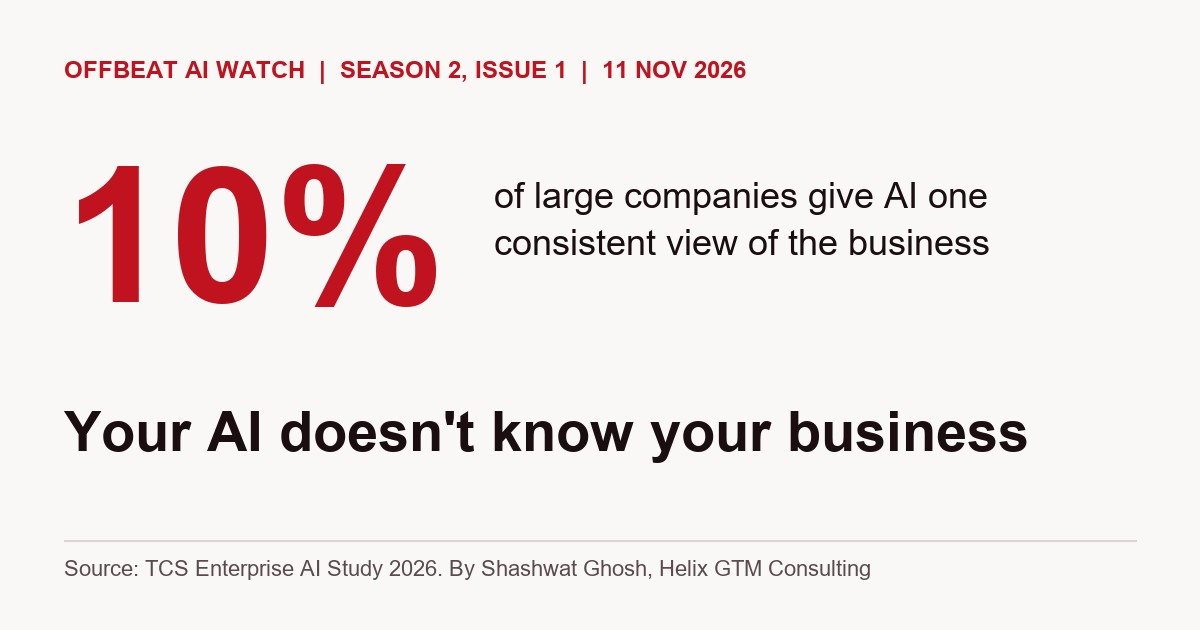
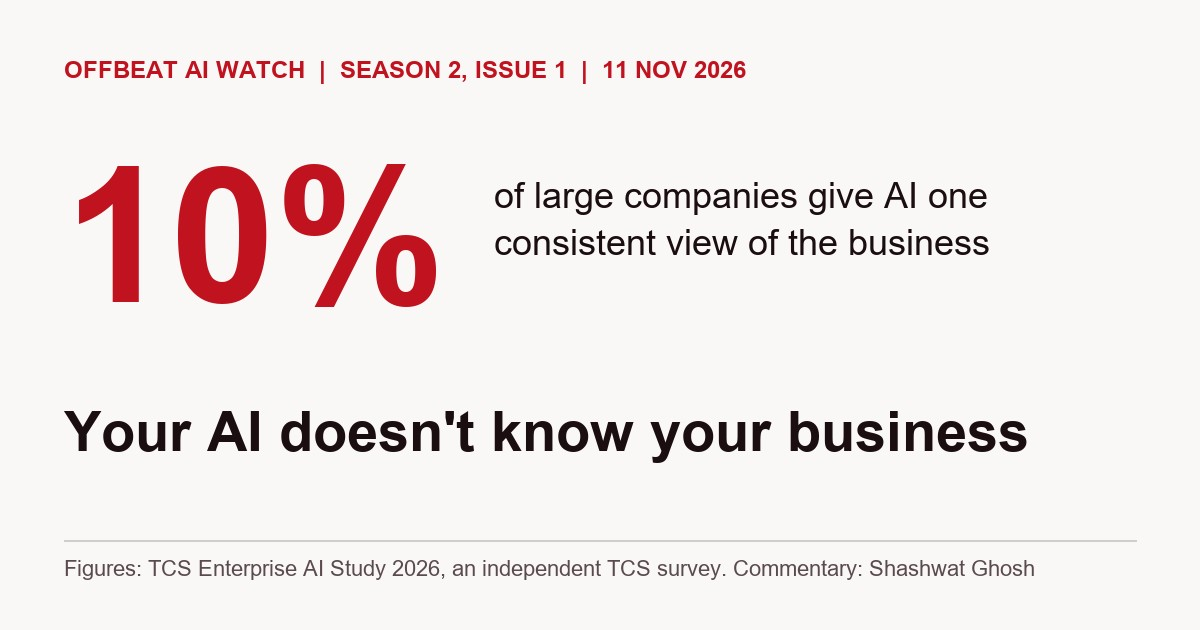
Season 2 Issue 1: independent TCS attribution on chart, card and caption

Changed region(s): [[0.0617, 0.8746, 0.8633, 0.9349]]

diff --git a/issues/2026-11-11.html b/issues/2026-11-11.html
@@ -341,7 +341,7 @@ body{background:linear-gradient(180deg,rgba(207,230,245,.85) 0,rgba(238,241,246,
 </head>
 <body>
 <a class="hx-skip" href="#main">Skip to content</a>
-<main id="main" class="obx obx-b"><header class="obx-head"><div class="obx-mast"><span class="obx-brand">Offbeat AI Watch</span><span>Season 2, Issue 1</span><span><time datetime="2026-11-11">11 November 2026</time></span><span>Fortnightly intelligence brief</span></div><h1>Your AI doesn't know your business</h1><p class="obx-dek">Only 10% of large companies give AI one view of the business. That is why your team's AI sounds generic.</p><p class="obx-by">By <a href="https://gtmhelix.com/about/">Shashwat Ghosh</a>, AI native fractional CMO</p></header><div class="obx-front"><div><section id="cover"><figure><img src="/ai-trendwatch/images/tcs-enterprise-ai-business-context-1280x680.jpg" width="1280" height="680" alt="Bar chart from the TCS Enterprise AI Study 2026: of 1,333 large companies, 11% keep business knowledge mainly with employees, 33% have fragmented documentation, 30% document key processes, 16% have standardised business context and only 10% have an enterprise business context layer that gives AI a consistent view across all systems." decoding="async"><figcaption>TCS Enterprise AI Study, Figure 9. Chart by Helix GTM from TCS data.</figcaption></figure><p class="obx-label">Cover story</p><h2>The context gap</h2><p>Only 10% of large companies give AI one consistent view of the business, a <a href="https://www.tcs.com/content/dam/global-tcs/en/pdfs/insights/global-studies/report/enterprise-ai-study-key-findings.pdf" rel="noopener" target="_blank">TCS survey</a> of 1,333 senior leaders finds. In 44%, the knowledge sits with employees (11%) or in scattered documents (33%). The top barrier to scaling AI: data that is not integrated, accessible or trusted.</p><p><strong>Bottom line:</strong> in a GTM team, that context is your ICP, your win reasons and your positioning. If it lives in the founder's head, your AI writes generic output. Structure the context before you scale the AI.</p></section><div class="obx-note" id="editors-note"><p class="obx-label">Editor's note</p><p>Diwali greetings to you and your family.</p><p>Offbeat AI Watch is back with Season 2: bigger, better and bolder.</p><p>The TCS study puts a number on a gap I usually find in GTM teams. The ICP, the win reasons and the positioning sit in one person's head, so the team's AI guesses.</p><p>I built the CRAFT framework for this: five things to tell an AI so its answer is specific. It is a public skill, <a href="https://www.skills.sh/shashwatgtm" rel="noopener" target="_blank">craft-context-engineering</a>. Helix's free GTM tools apply the same idea.</p><p class="obx-close">Write down what your best seller knows before you ask AI to sell.</p><p class="obx-by">Shashwat Ghosh</p></div></div><aside><section id="signal"><p class="obx-label">Offbeat news</p><ul class="obx-brief"><li id="signal-crowdstrike"><h3>CrowdStrike adds an AI off switch</h3><p>An administrator can now stop a rogue agent, block it from relaunching and cut its network access. Gateway first, endpoint next. CrowdStrike is also buying Fiddler for agent observability. <span class="obx-sigline">The signal: Buyers now expect a stop button and an audit trail.</span> <span class="obx-src"><a href="https://www.scworld.com/brief/crowdstrike-introduces-ai-kill-switch-to-manage-rogue-agents" rel="noopener" target="_blank">SC Media</a> · <a href="https://www.crowdstrike.com/en-us/press-releases/crowdstrike-to-acquire-fiddler-to-deliver-agent-observability/" rel="noopener" target="_blank">Fiddler deal</a></span></p></li><li id="signal-depa"><h3>India: train AI where the data lives</h3><p>MeitY's DEPA for AI Training handbook lets institutions keep control of the data used to train AI. “Under DEPA, the model travels to the data,” says Principal Scientific Adviser Ajay Kumar Sood. <span class="obx-sigline">The signal: Indian buyers will ask where your model trains.</span> <span class="obx-src"><a href="https://www.pib.gov.in/PressReleasePage.aspx?PRID=2330756" rel="noopener" target="_blank">PIB</a></span></p></li><li id="signal-pliant"><h3>Pliant: $80M for agent payments</h3><p>The Berlin B2B payments firm raised a Series C after passing $100M ARR. Agents from Claude, ChatGPT or in-house automations connect over MCP and pay inside workflows, with permissions and audit built in. <span class="obx-sigline">The signal: Agent payments are now a funded B2B category.</span> <span class="obx-src"><a href="https://www.getpliant.com/en/press/80-million-series-c" rel="noopener" target="_blank">Pliant</a></span></p></li><li id="signal-drcf"><h3>UK: you own what your agent does</h3><p>The CMA, FCA, ICO and Ofcom say existing law already covers AI agents. “An AI agent's autonomy does not diminish the responsibility of organisations that deploy it.” <span class="obx-sigline">The signal: Selling to UK customers through an agent? You are accountable.</span> <span class="obx-src"><a href="https://www.drcf.org.uk/publications/joint-statements/joint-statement-on-protecting-people-and-businesses-in-an-agentic-economy" rel="noopener" target="_blank">DRCF</a></span></p></li><li id="signal-anthropic"><h3>Anthropic shows what AI spend buys</h3><p>Claude Enterprise now has smart reports, a sampled view of each team's work, spend and friction, plus pooled monthly budgets for groups. <span class="obx-sigline">The signal: Proof of value per team is coming to AI renewals.</span> <span class="obx-src"><a href="https://claude.com/resources/articles/smart-reports-surveys-pooled-budgets" rel="noopener" target="_blank">Anthropic</a></span></p></li></ul></section></aside></div><section class="obx-trends" id="trends"><p class="obx-label">Offbeat trends of the fortnight</p><ol><li><span class="obx-num">01</span><h3>Control before autonomy</h3><p>Two thirds of large companies let AI decide nowhere or in only a few cases (<a href="#cover">TCS</a>). <a href="#signal-crowdstrike">CrowdStrike</a> puts a person on the kill switch; <a href="#builders-corner">Microsoft's</a> agent tools follow CRM permissions.</p><p class="obx-wtm"><b>What this means for you:</b> Lead every AI pitch with the human override.</p></li><li><span class="obx-num">02</span><h3>The AI goes to the data</h3><p><a href="#signal-depa">DEPA</a>: the model travels to the data. <a href="#builders-corner">Microsoft</a>: agents see only what each user's CRM role allows. TCS: 43% in Continental Europe call AI sovereignty a high risk.</p><p class="obx-wtm"><b>What this means for you:</b> Keep a one-page answer on where your AI trains, runs and stores data.</p></li><li><span class="obx-num">03</span><h3>Agents get a budget, and an owner</h3><p><a href="#signal-pliant">Pliant</a> lets agents pay inside workflows. <a href="#builders-corner">Microsoft's</a> agents can turn quotes into orders. <a href="#signal-drcf">UK regulators</a> say the deploying firm stays responsible.</p><p class="obx-wtm"><b>What this means for you:</b> Name who signs off every payment, quote or order your agent can start.</p></li></ol></section><div class="obx-pair"><section class="obx-box" id="tool"><p class="obx-label">Run through the tool</p><h2>What to ask a CIO before you sell AI</h2><p>I gave our discovery question tool the TCS findings above as the buyer's pain, a CIO on a first call and an AI agent that drafts sales content. Three of the questions it returned:</p><ul class="obx-quotes"><li>“Where does the data it needs live, and what may leave your environment?”</li><li>“How do you judge that a result is right today: who reviews it, and against what?”</li><li>“Which workloads or tasks would you move first, and which never?”</li></ul><p class="obx-mono">Revenue Enablement, discovery_question_bank (Gap Selling), real output</p><p><strong>How I read it:</strong> Open with where the context lives and who checks the output. A buyer who cannot answer has just named your first project.</p><p class="obx-cta"><a href="https://revenue-enablement.gtmhelix.com/tools/discovery-question-bank/?framework=gap_selling&prospect_role=Chief%20Information%20Officer&prospect_industry=large%20enterprise&known_pain_points=business%20knowledge%20sits%20with%20employees%20or%20in%20scattered%20documents%3B%20only%2010%25%20have%20one%20business%20context%20layer%20for%20AI%3B%20data%20that%20is%20not%20integrated%20or%20trusted%20blocks%20AI%20at%20scale%3B%20AI%20outputs%20are%20unpredictable%20or%20wrong&deal_stage=first_call&your_solution=an%20AI%20agent%20that%20drafts%20sales%20content%20from%20the%20buyer%27s%20own%20customer%20knowledge&gaps_to_fill=where%20business%20context%20lives%20today%3B%20who%20owns%20scaling%20AI%20without%20a%20Chief%20AI%20Officer&your_sector=ai_native">Run this story yourself on our tool</a></p></section><section class="obx-box" id="builders-corner"><p class="obx-label">Builder's corner</p><h2>Your next user may be an AI agent</h2><p>Microsoft's Dynamics 365 sales MCP server is generally available (<a href="https://www.microsoft.com/en-us/dynamics-365/blog/it-professional/2026/10/29/dynamics-365-cx-mcp-server-sales/" rel="noopener" target="_blank">Microsoft</a>, 29 Oct): 59 governed tools, from leads to quotes and orders, inside any MCP assistant, under each user's CRM permissions.</p><p>Microsoft's reasoning: “Sellers don’t live in one place. They work across chat, email, agent-driven workflows, and the tools closest to the deal, so CRM needs to meet them there.” It calls this a step toward headless CRM.</p><p><strong>Takeaway:</strong> big vendors are adding MCP on top of their APIs. If a buyer's AI cannot reach your product, you drop out of the workflow. Helix built its 48 free GTM tools this way.</p><p class="obx-cta"><a href="https://tools.gtmhelix.com/connectors/">Try our free MCP tools</a></p></section></div><section class="obx-tail"><div><p class="obx-label">Previous season</p><ul class="obx-prev"><li><a href="https://gtmhelix.com/ai-trendwatch/issues/2026-01-07">Google's AI Content Reckoning: December 2025 Core Update Changes Everything</a> <span>Issue 6, 7 January 2026</span></li><li><a href="https://gtmhelix.com/ai-trendwatch/issues/2025-12-17">Tech Giants Unite: Agentic AI Foundation Launches with MCP at Its Core</a> <span>Issue 5, 17 December 2025</span></li><li><a href="https://gtmhelix.com/ai-trendwatch/issues/2025-12-03">Anthropic Discloses First AI-Orchestrated Cyber Espionage Campaign</a> <span>Issue 4, 3 December 2025</span></li><li><a href="https://gtmhelix.com/ai-trendwatch/issues/2025-11-03">OpenAI DevDay: Enterprise Scaling for Agentic AI</a> <span>Issue 3, 3 November 2025</span></li></ul><p><a href="https://gtmhelix.com/ai-trendwatch/archive">All issues</a></p></div><div><p class="obx-label">Get the next issue</p><p>A free fortnightly brief on the AI news that matters to B2B leaders.</p><form action='/writing/subscribed/' class='subscribe-form' method='POST' name='offbeat-ai-watch'>
+<main id="main" class="obx obx-b"><header class="obx-head"><div class="obx-mast"><span class="obx-brand">Offbeat AI Watch</span><span>Season 2, Issue 1</span><span><time datetime="2026-11-11">11 November 2026</time></span><span>Fortnightly intelligence brief</span></div><h1>Your AI doesn't know your business</h1><p class="obx-dek">Only 10% of large companies give AI one view of the business. That is why your team's AI sounds generic.</p><p class="obx-by">By <a href="https://gtmhelix.com/about/">Shashwat Ghosh</a>, AI native fractional CMO</p></header><div class="obx-front"><div><section id="cover"><figure><img src="/ai-trendwatch/images/tcs-enterprise-ai-business-context-1280x680.jpg" width="1280" height="680" alt="Bar chart from the TCS Enterprise AI Study 2026: of 1,333 large companies, 11% keep business knowledge mainly with employees, 33% have fragmented documentation, 30% document key processes, 16% have standardised business context and only 10% have an enterprise business context layer that gives AI a consistent view across all systems." decoding="async"><figcaption>TCS Enterprise AI Study 2026, Figure 9. Independent survey by TCS; chart redrawn by Helix GTM from the published data.</figcaption></figure><p class="obx-label">Cover story</p><h2>The context gap</h2><p>Only 10% of large companies give AI one consistent view of the business, a <a href="https://www.tcs.com/content/dam/global-tcs/en/pdfs/insights/global-studies/report/enterprise-ai-study-key-findings.pdf" rel="noopener" target="_blank">TCS survey</a> of 1,333 senior leaders finds. In 44%, the knowledge sits with employees (11%) or in scattered documents (33%). The top barrier to scaling AI: data that is not integrated, accessible or trusted.</p><p><strong>Bottom line:</strong> in a GTM team, that context is your ICP, your win reasons and your positioning. If it lives in the founder's head, your AI writes generic output. Structure the context before you scale the AI.</p></section><div class="obx-note" id="editors-note"><p class="obx-label">Editor's note</p><p>Diwali greetings to you and your family.</p><p>Offbeat AI Watch is back with Season 2: bigger, better and bolder.</p><p>The TCS study puts a number on a gap I usually find in GTM teams. The ICP, the win reasons and the positioning sit in one person's head, so the team's AI guesses.</p><p>I built the CRAFT framework for this: five things to tell an AI so its answer is specific. It is a public skill, <a href="https://www.skills.sh/shashwatgtm" rel="noopener" target="_blank">craft-context-engineering</a>. Helix's free GTM tools apply the same idea.</p><p class="obx-close">Write down what your best seller knows before you ask AI to sell.</p><p class="obx-by">Shashwat Ghosh</p></div></div><aside><section id="signal"><p class="obx-label">Offbeat news</p><ul class="obx-brief"><li id="signal-crowdstrike"><h3>CrowdStrike adds an AI off switch</h3><p>An administrator can now stop a rogue agent, block it from relaunching and cut its network access. Gateway first, endpoint next. CrowdStrike is also buying Fiddler for agent observability. <span class="obx-sigline">The signal: Buyers now expect a stop button and an audit trail.</span> <span class="obx-src"><a href="https://www.scworld.com/brief/crowdstrike-introduces-ai-kill-switch-to-manage-rogue-agents" rel="noopener" target="_blank">SC Media</a> · <a href="https://www.crowdstrike.com/en-us/press-releases/crowdstrike-to-acquire-fiddler-to-deliver-agent-observability/" rel="noopener" target="_blank">Fiddler deal</a></span></p></li><li id="signal-depa"><h3>India: train AI where the data lives</h3><p>MeitY's DEPA for AI Training handbook lets institutions keep control of the data used to train AI. “Under DEPA, the model travels to the data,” says Principal Scientific Adviser Ajay Kumar Sood. <span class="obx-sigline">The signal: Indian buyers will ask where your model trains.</span> <span class="obx-src"><a href="https://www.pib.gov.in/PressReleasePage.aspx?PRID=2330756" rel="noopener" target="_blank">PIB</a></span></p></li><li id="signal-pliant"><h3>Pliant: $80M for agent payments</h3><p>The Berlin B2B payments firm raised a Series C after passing $100M ARR. Agents from Claude, ChatGPT or in-house automations connect over MCP and pay inside workflows, with permissions and audit built in. <span class="obx-sigline">The signal: Agent payments are now a funded B2B category.</span> <span class="obx-src"><a href="https://www.getpliant.com/en/press/80-million-series-c" rel="noopener" target="_blank">Pliant</a></span></p></li><li id="signal-drcf"><h3>UK: you own what your agent does</h3><p>The CMA, FCA, ICO and Ofcom say existing law already covers AI agents. “An AI agent's autonomy does not diminish the responsibility of organisations that deploy it.” <span class="obx-sigline">The signal: Selling to UK customers through an agent? You are accountable.</span> <span class="obx-src"><a href="https://www.drcf.org.uk/publications/joint-statements/joint-statement-on-protecting-people-and-businesses-in-an-agentic-economy" rel="noopener" target="_blank">DRCF</a></span></p></li><li id="signal-anthropic"><h3>Anthropic shows what AI spend buys</h3><p>Claude Enterprise now has smart reports, a sampled view of each team's work, spend and friction, plus pooled monthly budgets for groups. <span class="obx-sigline">The signal: Proof of value per team is coming to AI renewals.</span> <span class="obx-src"><a href="https://claude.com/resources/articles/smart-reports-surveys-pooled-budgets" rel="noopener" target="_blank">Anthropic</a></span></p></li></ul></section></aside></div><section class="obx-trends" id="trends"><p class="obx-label">Offbeat trends of the fortnight</p><ol><li><span class="obx-num">01</span><h3>Control before autonomy</h3><p>Two thirds of large companies let AI decide nowhere or in only a few cases (<a href="#cover">TCS</a>). <a href="#signal-crowdstrike">CrowdStrike</a> puts a person on the kill switch; <a href="#builders-corner">Microsoft's</a> agent tools follow CRM permissions.</p><p class="obx-wtm"><b>What this means for you:</b> Lead every AI pitch with the human override.</p></li><li><span class="obx-num">02</span><h3>The AI goes to the data</h3><p><a href="#signal-depa">DEPA</a>: the model travels to the data. <a href="#builders-corner">Microsoft</a>: agents see only what each user's CRM role allows. TCS: 43% in Continental Europe call AI sovereignty a high risk.</p><p class="obx-wtm"><b>What this means for you:</b> Keep a one-page answer on where your AI trains, runs and stores data.</p></li><li><span class="obx-num">03</span><h3>Agents get a budget, and an owner</h3><p><a href="#signal-pliant">Pliant</a> lets agents pay inside workflows. <a href="#builders-corner">Microsoft's</a> agents can turn quotes into orders. <a href="#signal-drcf">UK regulators</a> say the deploying firm stays responsible.</p><p class="obx-wtm"><b>What this means for you:</b> Name who signs off every payment, quote or order your agent can start.</p></li></ol></section><div class="obx-pair"><section class="obx-box" id="tool"><p class="obx-label">Run through the tool</p><h2>What to ask a CIO before you sell AI</h2><p>I gave our discovery question tool the TCS findings above as the buyer's pain, a CIO on a first call and an AI agent that drafts sales content. Three of the questions it returned:</p><ul class="obx-quotes"><li>“Where does the data it needs live, and what may leave your environment?”</li><li>“How do you judge that a result is right today: who reviews it, and against what?”</li><li>“Which workloads or tasks would you move first, and which never?”</li></ul><p class="obx-mono">Revenue Enablement, discovery_question_bank (Gap Selling), real output</p><p><strong>How I read it:</strong> Open with where the context lives and who checks the output. A buyer who cannot answer has just named your first project.</p><p class="obx-cta"><a href="https://revenue-enablement.gtmhelix.com/tools/discovery-question-bank/?framework=gap_selling&prospect_role=Chief%20Information%20Officer&prospect_industry=large%20enterprise&known_pain_points=business%20knowledge%20sits%20with%20employees%20or%20in%20scattered%20documents%3B%20only%2010%25%20have%20one%20business%20context%20layer%20for%20AI%3B%20data%20that%20is%20not%20integrated%20or%20trusted%20blocks%20AI%20at%20scale%3B%20AI%20outputs%20are%20unpredictable%20or%20wrong&deal_stage=first_call&your_solution=an%20AI%20agent%20that%20drafts%20sales%20content%20from%20the%20buyer%27s%20own%20customer%20knowledge&gaps_to_fill=where%20business%20context%20lives%20today%3B%20who%20owns%20scaling%20AI%20without%20a%20Chief%20AI%20Officer&your_sector=ai_native">Run this story yourself on our tool</a></p></section><section class="obx-box" id="builders-corner"><p class="obx-label">Builder's corner</p><h2>Your next user may be an AI agent</h2><p>Microsoft's Dynamics 365 sales MCP server is generally available (<a href="https://www.microsoft.com/en-us/dynamics-365/blog/it-professional/2026/10/29/dynamics-365-cx-mcp-server-sales/" rel="noopener" target="_blank">Microsoft</a>, 29 Oct): 59 governed tools, from leads to quotes and orders, inside any MCP assistant, under each user's CRM permissions.</p><p>Microsoft's reasoning: “Sellers don’t live in one place. They work across chat, email, agent-driven workflows, and the tools closest to the deal, so CRM needs to meet them there.” It calls this a step toward headless CRM.</p><p><strong>Takeaway:</strong> big vendors are adding MCP on top of their APIs. If a buyer's AI cannot reach your product, you drop out of the workflow. Helix built its 48 free GTM tools this way.</p><p class="obx-cta"><a href="https://tools.gtmhelix.com/connectors/">Try our free MCP tools</a></p></section></div><section class="obx-tail"><div><p class="obx-label">Previous season</p><ul class="obx-prev"><li><a href="https://gtmhelix.com/ai-trendwatch/issues/2026-01-07">Google's AI Content Reckoning: December 2025 Core Update Changes Everything</a> <span>Issue 6, 7 January 2026</span></li><li><a href="https://gtmhelix.com/ai-trendwatch/issues/2025-12-17">Tech Giants Unite: Agentic AI Foundation Launches with MCP at Its Core</a> <span>Issue 5, 17 December 2025</span></li><li><a href="https://gtmhelix.com/ai-trendwatch/issues/2025-12-03">Anthropic Discloses First AI-Orchestrated Cyber Espionage Campaign</a> <span>Issue 4, 3 December 2025</span></li><li><a href="https://gtmhelix.com/ai-trendwatch/issues/2025-11-03">OpenAI DevDay: Enterprise Scaling for Agentic AI</a> <span>Issue 3, 3 November 2025</span></li></ul><p><a href="https://gtmhelix.com/ai-trendwatch/archive">All issues</a></p></div><div><p class="obx-label">Get the next issue</p><p>A free fortnightly brief on the AI news that matters to B2B leaders.</p><form action='/writing/subscribed/' class='subscribe-form' method='POST' name='offbeat-ai-watch'>
     <input type="hidden" name="form-name" value="offbeat-ai-watch">
     <label class="hx-sr-only" for="ob-email">Email address</label>
     <input type="email" id="ob-email" name="email" placeholder="Enter your email" autocomplete="email" maxlength="254" required>
